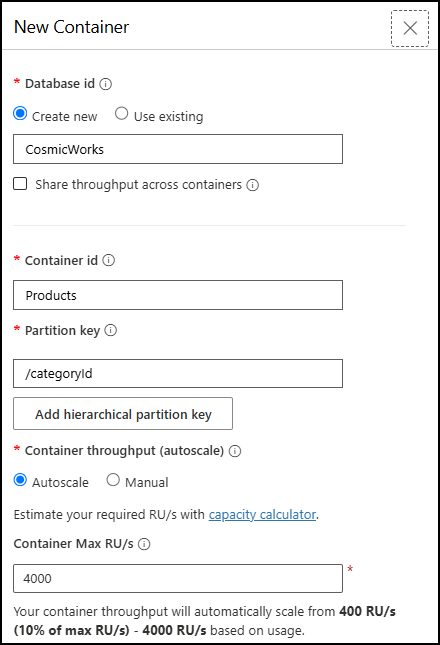
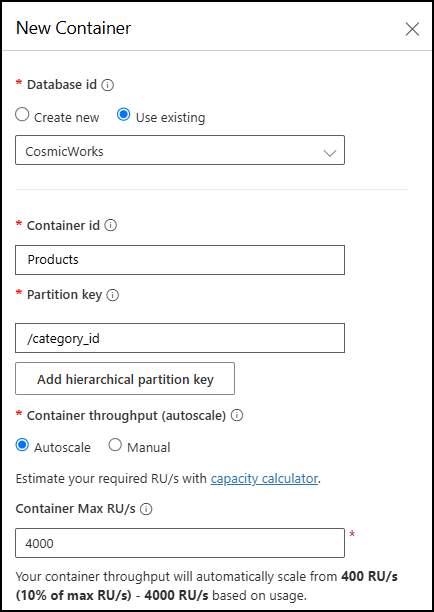
Updating partition key

Changed region(s): [[0.0, 0.3415, 1.0, 1.0], [0.03, 0.1242, 0.8088, 0.3105], [0.03, 0.0, 0.9885, 0.0931]]

diff --git a/python/instructions/07-01-enable-azure-cosmos-db-nosql-vector-search.md b/python/instructions/07-01-enable-azure-cosmos-db-nosql-vector-search.md
@@ -84,7 +84,7 @@ In this task, you will enable the *Vector Search for NoSQL API* feature in your 
 2. In the **New Container** dialog:
    1. Under **Database id**, select **Create new** and enter "CosmicWorks" into the database id field.
    2. In the **Container id** box, enter the name "Products."
-   3. Assign "/categoryId" as the **Partition key.**
+   3. Assign "/category_id" as the **Partition key.**
    4. Ensure the **Container throughput** is set to **Autoscale** with a max RU/s of 4000.
 
       ![Screenshot of the New Container settings specified above entered into the dialog.](media/07-azure-cosmos-db-new-container.png)
